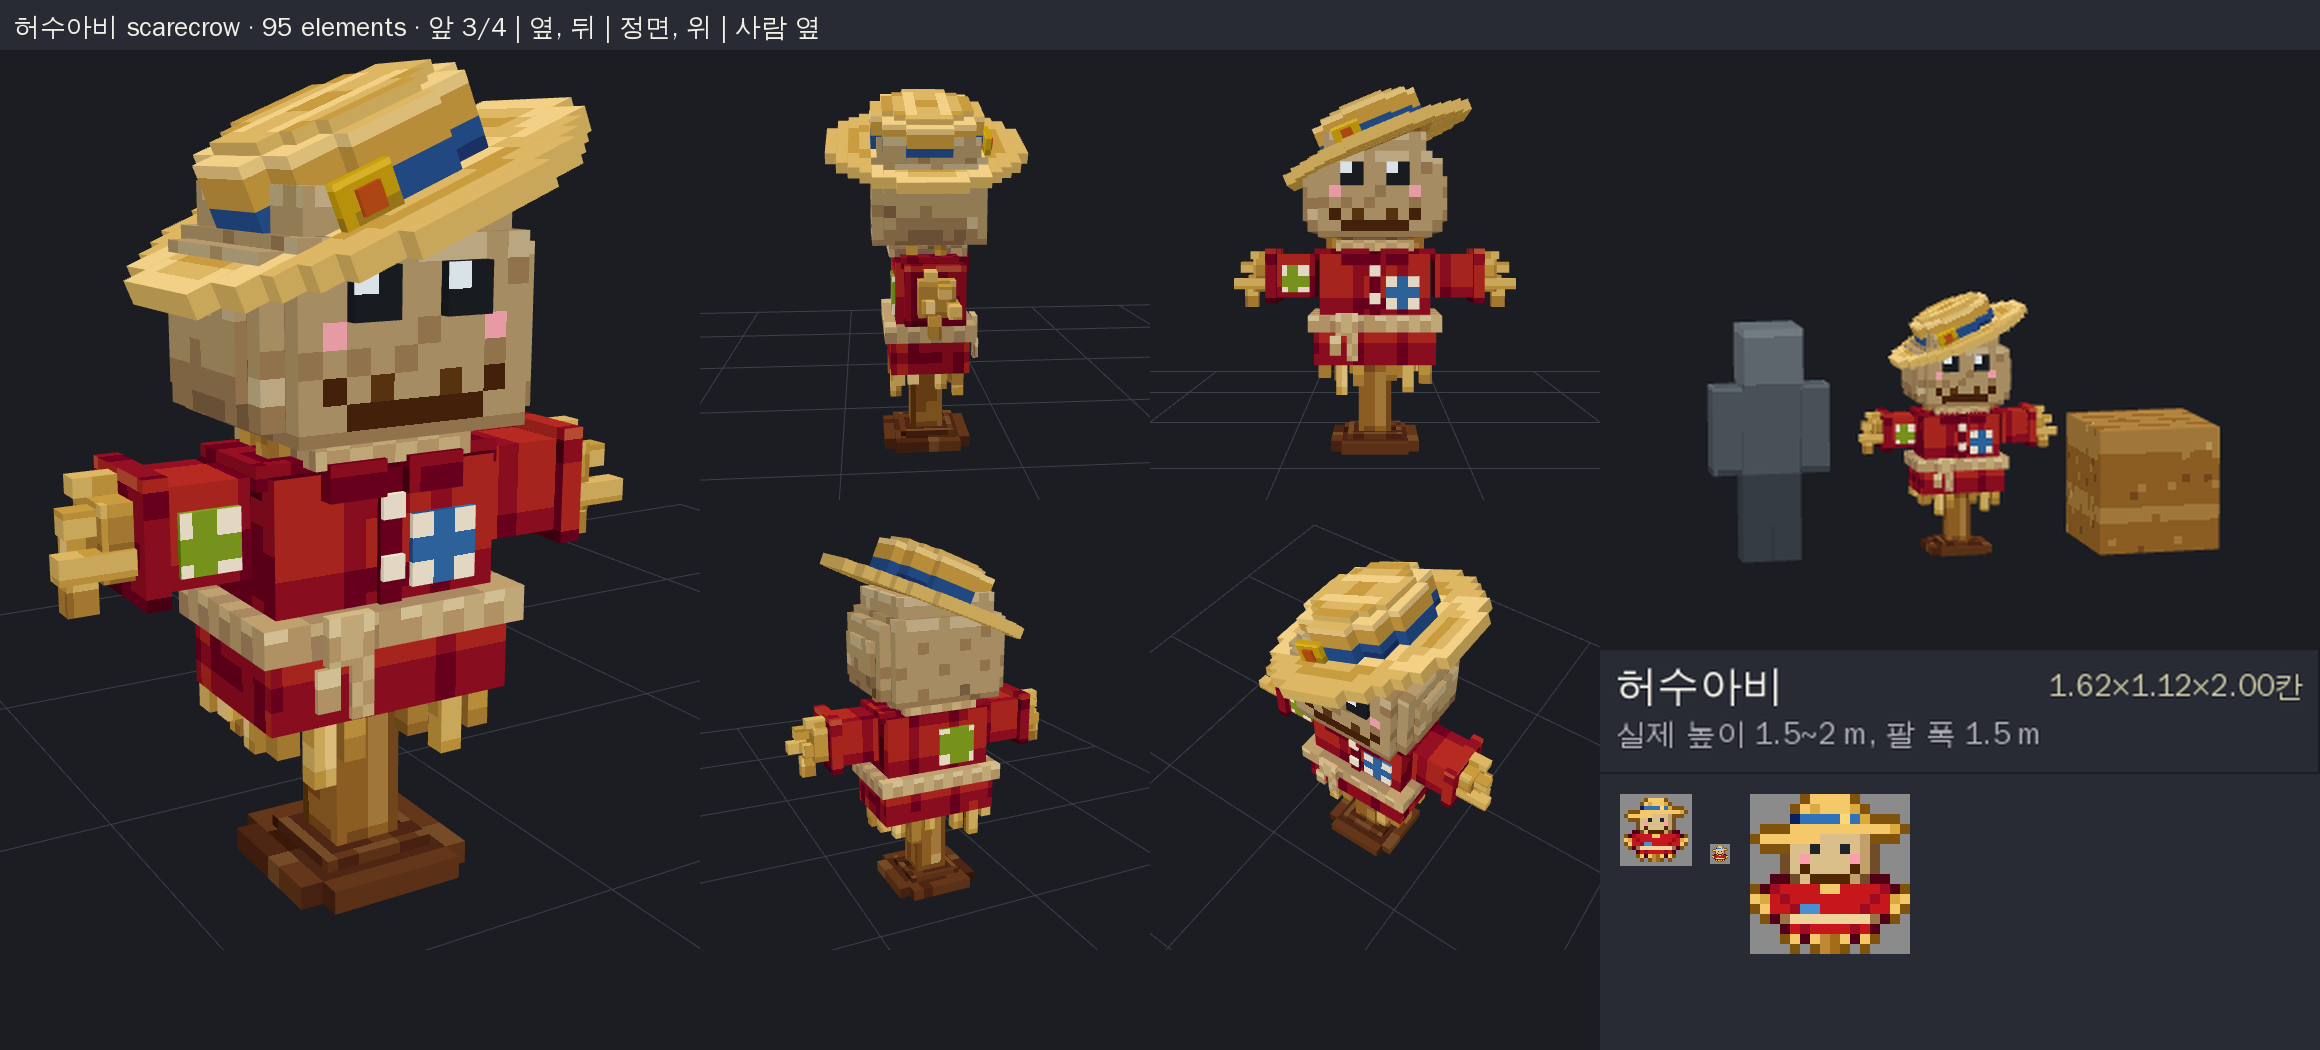
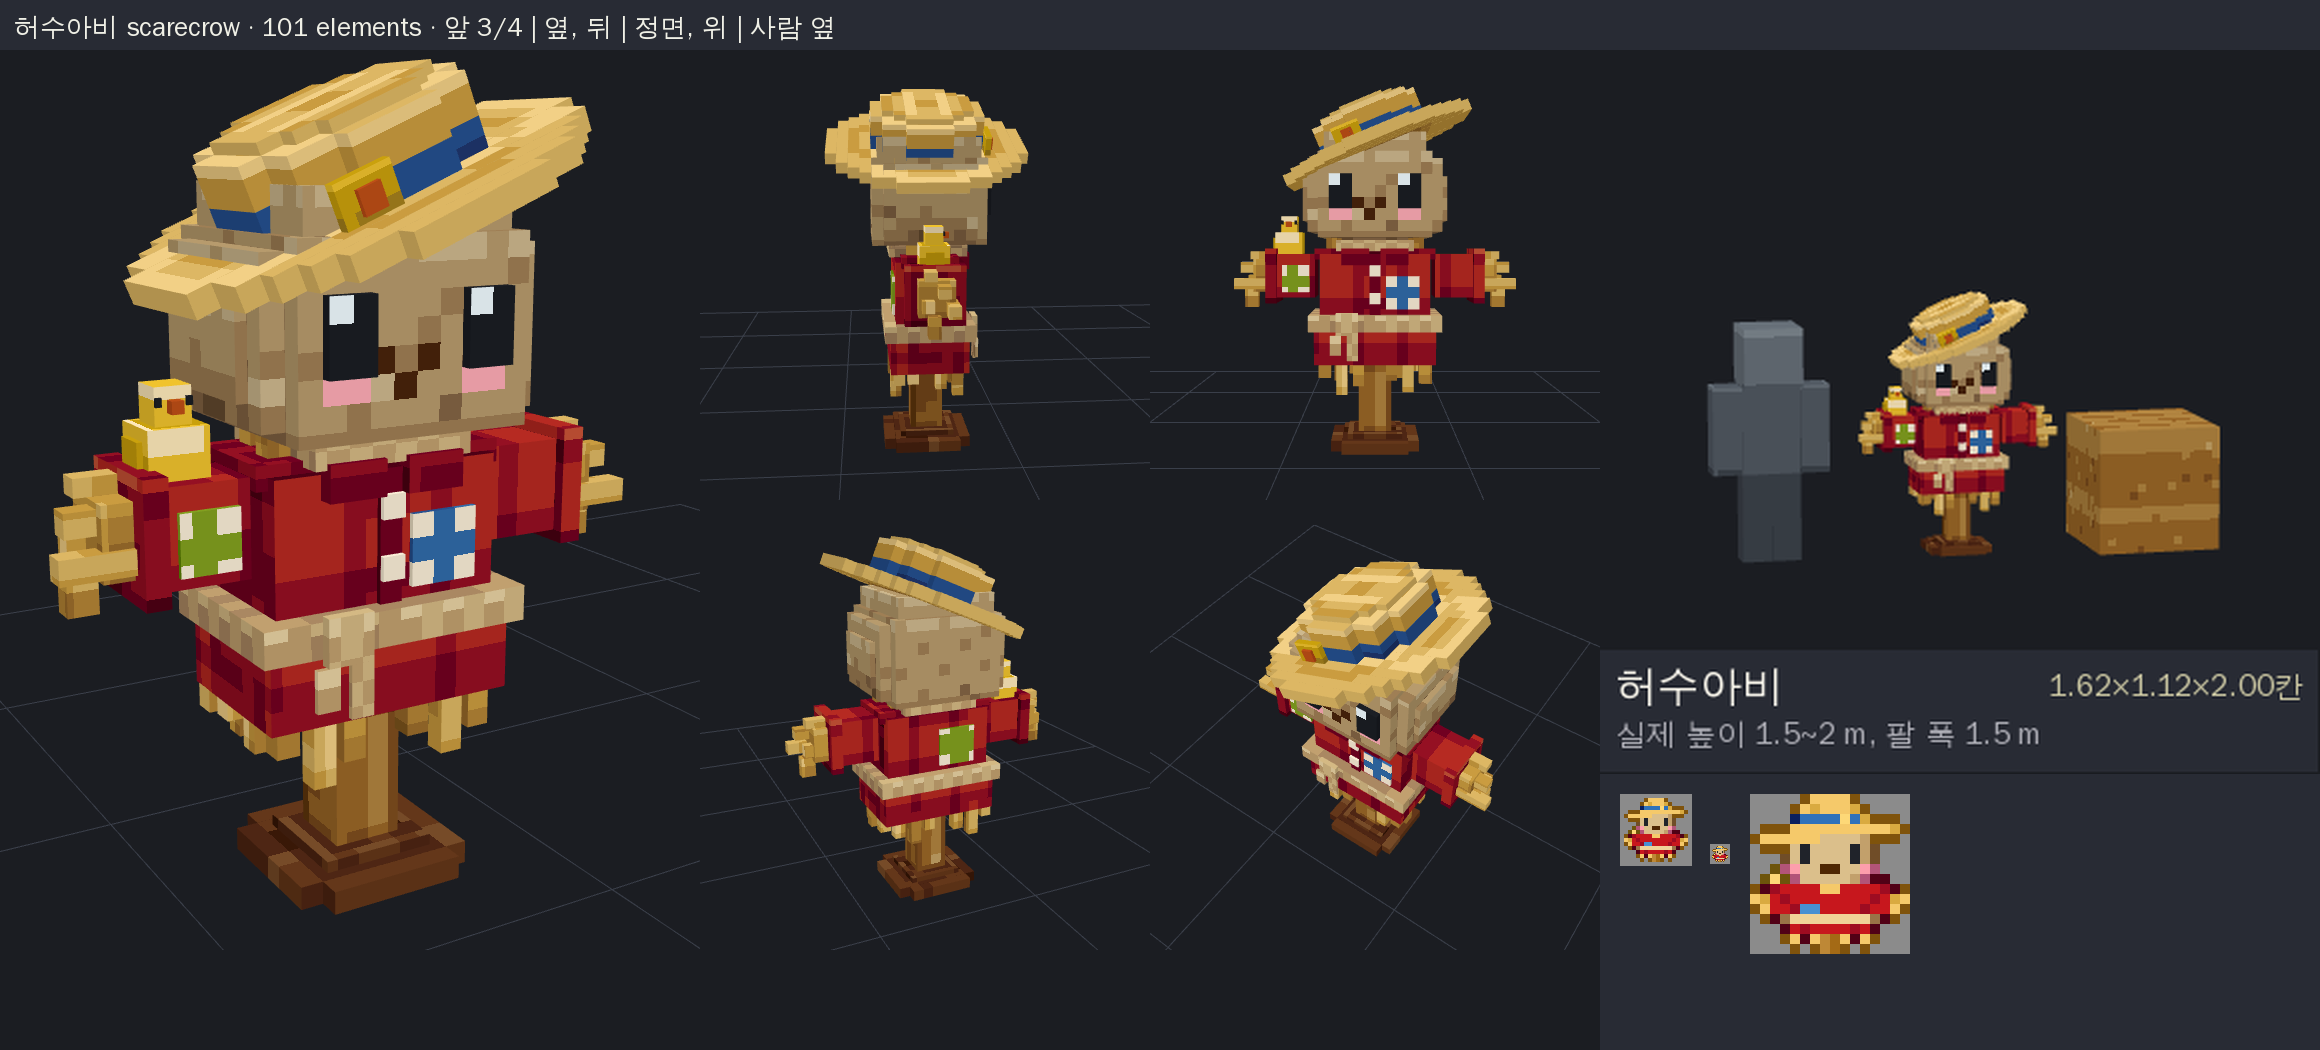
허수아비 더 귀엽게: 낮고 큰 눈 · 작은 입 · 볼터치 · 어깨 위 병아리
Claude-Session: https://claude.ai/code/session_01RZiBpXr9dauHCJtPMWBQ4s

diff --git a/tools/assetgen/models/furniture_farm.py b/tools/assetgen/models/furniture_farm.py
@@ -165,12 +165,12 @@ def scarecrow():
     # the face (column 0 at the viewer's left, x 12..13; rows from y 26 down): S thread, T a stitch across it,
     # P a rosy cheek (the eyes are buttons standing out of it)
     face = ["..........",   # y 26
-            "..........",   # y 25  eyes (buttons)
+            "..........",   # y 25  eyes (buttons, set low and wide: a baby face)
             "..........",   # y 24  eyes
-            ".P......P.",   # y 23
-            "..........",   # y 22
-            ".S.T..T.S.",   # y 21  the smile's ends turned up, a stitch across it each side
-            "..SSSSSS..",   # y 20
+            "..........",   # y 23  eyes
+            "...S.S....",   # y 22  a small sewn smile
+            ".PP.S..PP.",   # y 21  rosy cheeks under the eyes
+            "..........",   # y 20
             ]
     art = {(12 - col, 26 - row): ch for row, line in enumerate(face) for col, ch in enumerate(line) if ch != "."}
 
@@ -195,8 +195,8 @@ def scarecrow():
         if c.face == "north" and c.u == 0 and c.v == 0:
             return ("porcelain", 2)
         return None
-    for x in (9, 5):
-        m.box("eye", (x, 24, 2.5), (x + 2, 26, 3), Paint("rubber", 1, noise=0, decal=glint, ao=0, rim=0))
+    for x in (10, 4):
+        m.box("eye", (x, 22, 2.5), (x + 2, 25, 3), Paint("rubber", 1, noise=0, decal=glint, ao=0, rim=0))
 
     # --- the straw hat, cocked to one side ------------------------------------------------------------
     m.group("hat")
@@ -218,6 +218,15 @@ def scarecrow():
     # a little sunflower tucked in the band, on its front
     rbox(m, "flower", (9, 28.25, 2.5), (11.5, 30.25, 3), flat("gold", 1, ao=0), rot)
     rbox(m, "flower_eye", (9.75, 28.75, 2.25), (10.75, 29.75, 2.5), flat("fox", 1, ao=0), rot)
+    # --- a chick perched on the left sleeve --------------------------------------------------------
+    m.group("chick")
+    chick = flat("gold", 2, rim=0.6)
+    m.box("chick", (14.75, 18, 6.75), (17.25, 20, 9.25), chick)
+    m.box("chick_head", (15.25, 20, 7.25), (16.75, 21.5, 8.75), chick)
+    m.box("chick_wing", (17.25, 18.5, 7.25), (17.5, 19.5, 8.75), flat("gold", 1, ao=0))
+    m.box("chick_beak", (15.75, 20.5, 6.75), (16.25, 21, 7.25), flat("fox", 1, ao=0, rim=0))
+    for x in (15.25, 16.5):
+        m.box("chick_eye", (x, 20.75, 7.1), (x + 0.25, 21.1, 7.25), flat("rubber", 1, ao=0, rim=0))
     return display(m, (1, 2, 1), 0)
 
 

diff --git a/tools/assetgen/furniture_icons_farm.py b/tools/assetgen/furniture_icons_farm.py
@@ -24,10 +24,10 @@ SCARECROW = ["......HHHH......",
              ".....bbbbFbh....",
              "....HHHHHHHHHHh.",
              ".HHHHHHKKKKk....",
-             "....KKEKKEKk....",
-             "....KPKKKKPk....",
-             "....KMKKKKMk....",
-             ".....KMMMMk.....",
+             "....KEKKKKEk....",
+             "....KEKKKKEk....",
+             "....PKKMMKKP....",
+             "..Y..KKKKKk.....",
              "..rRRRRSSRRRRr..",
              "SsRrRRRRRRRRrRsS",
              ".SRRrDDRRRRrRRS.",
@@ -39,7 +39,7 @@ PIXELS = {  # char: (material, step, layer)
     "H": ("straw", 4, 9), "h": ("straw", 3, 9), "b": ("denim", 3, 9), "F": ("gold", 4, 9),
     "K": ("burlap", 4, 5), "k": ("burlap", 3, 5), "E": ("rubber", 1, 6), "P": ("pink", 3, 6), "M": ("wood_dark", 1, 6),
     "R": ("fabric_red", 3, 3), "r": ("fabric_red", 2, 3), "D": ("denim", 4, 4), "L": ("bean", 4, 4),
-    "S": ("straw", 4, 2), "s": ("straw", 3, 2), "W": ("wood", 3, 1), "w": ("wood", 2, 1),
+    "S": ("straw", 4, 2), "s": ("straw", 3, 2), "W": ("wood", 3, 1), "Y": ("gold", 4, 7), "w": ("wood", 2, 1),
 }
 
 
